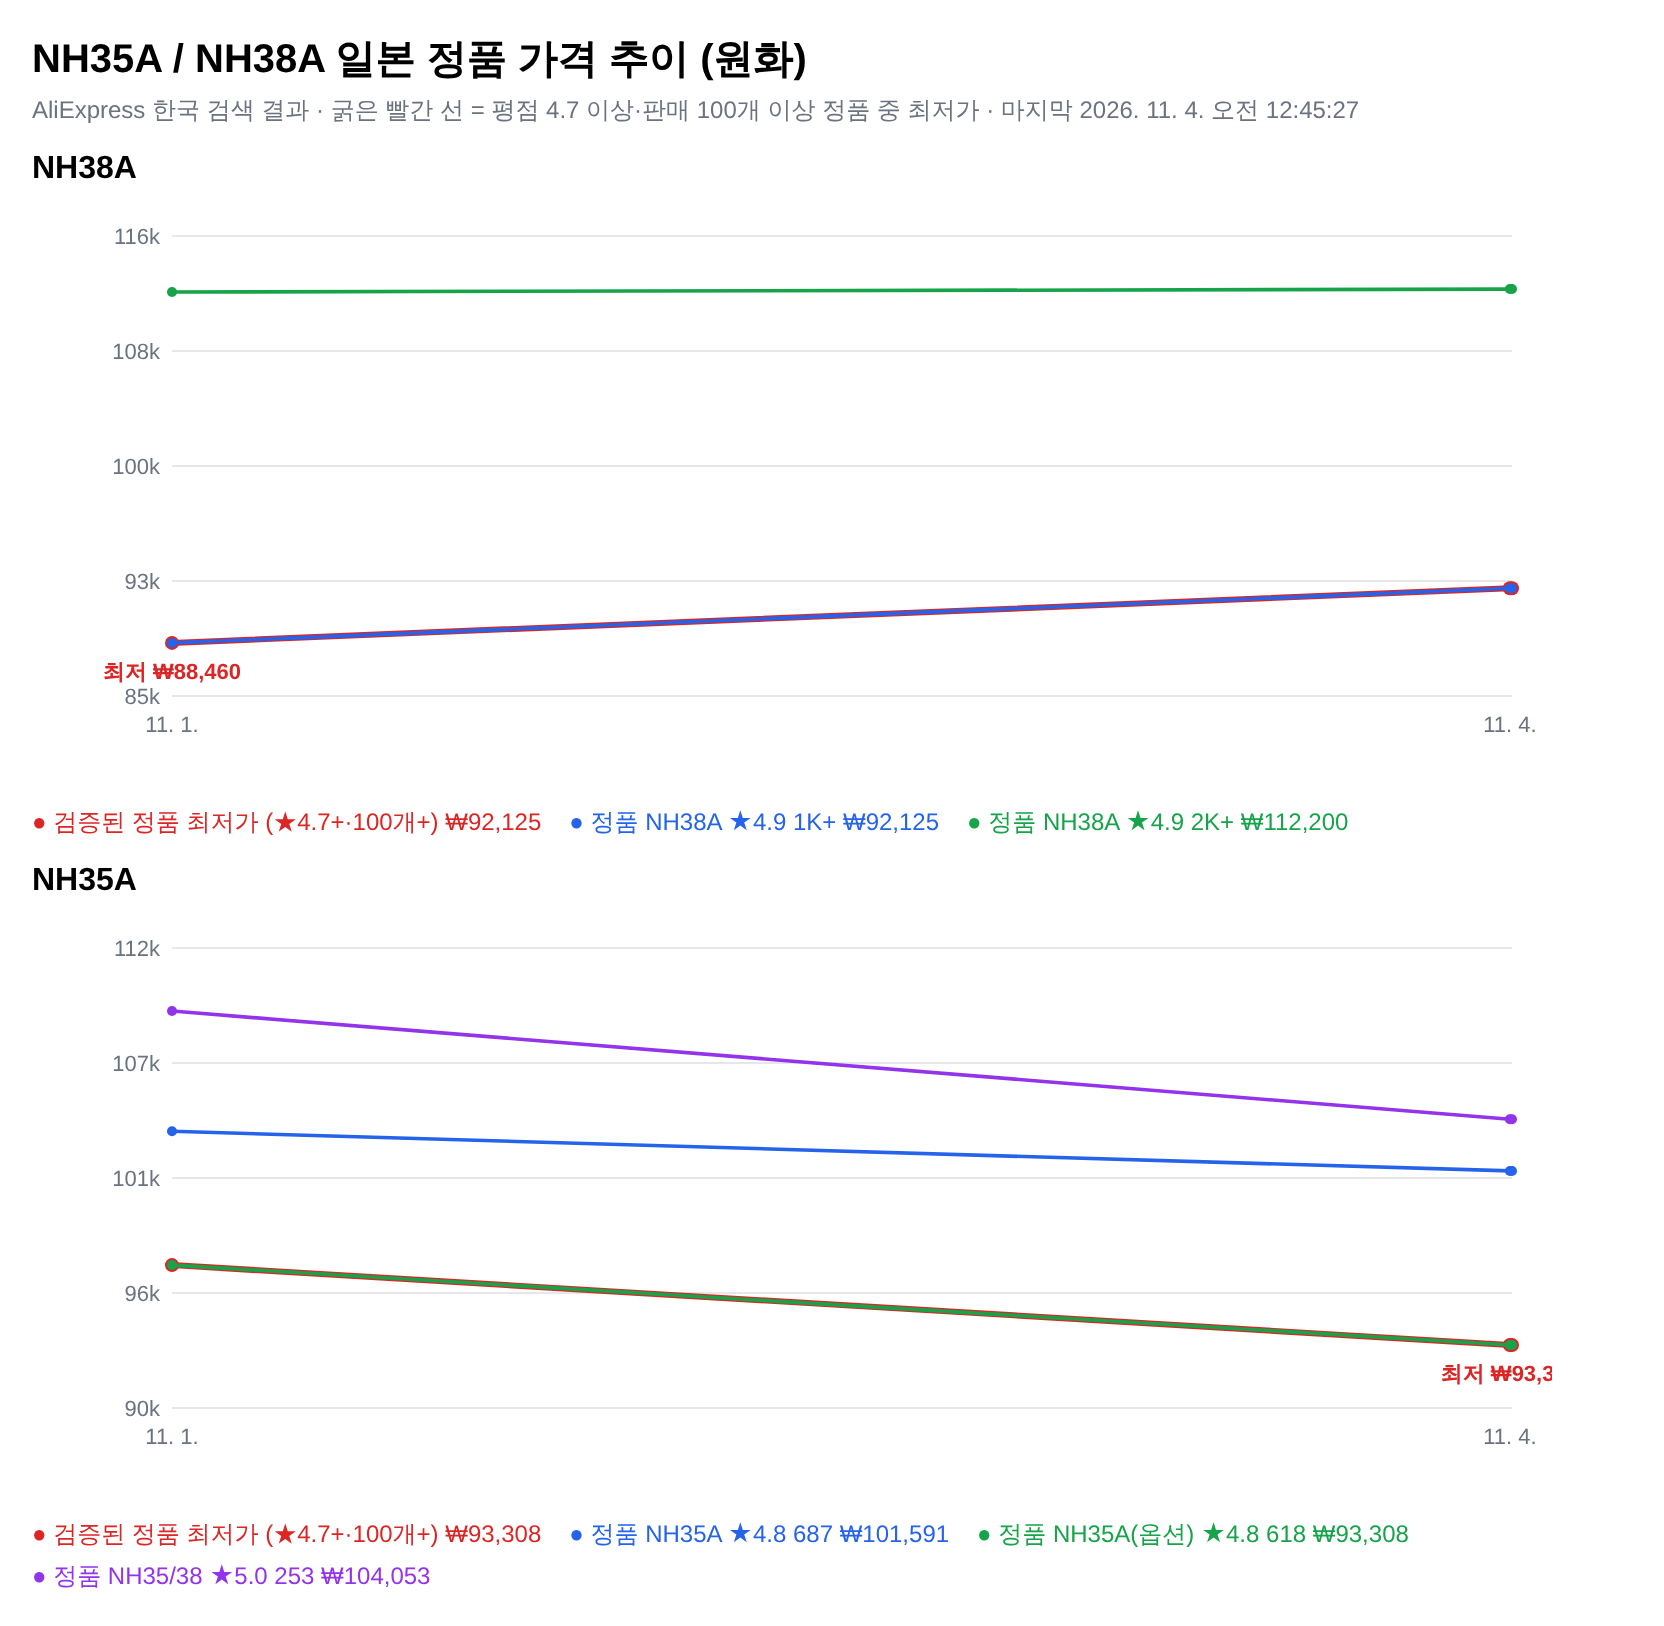
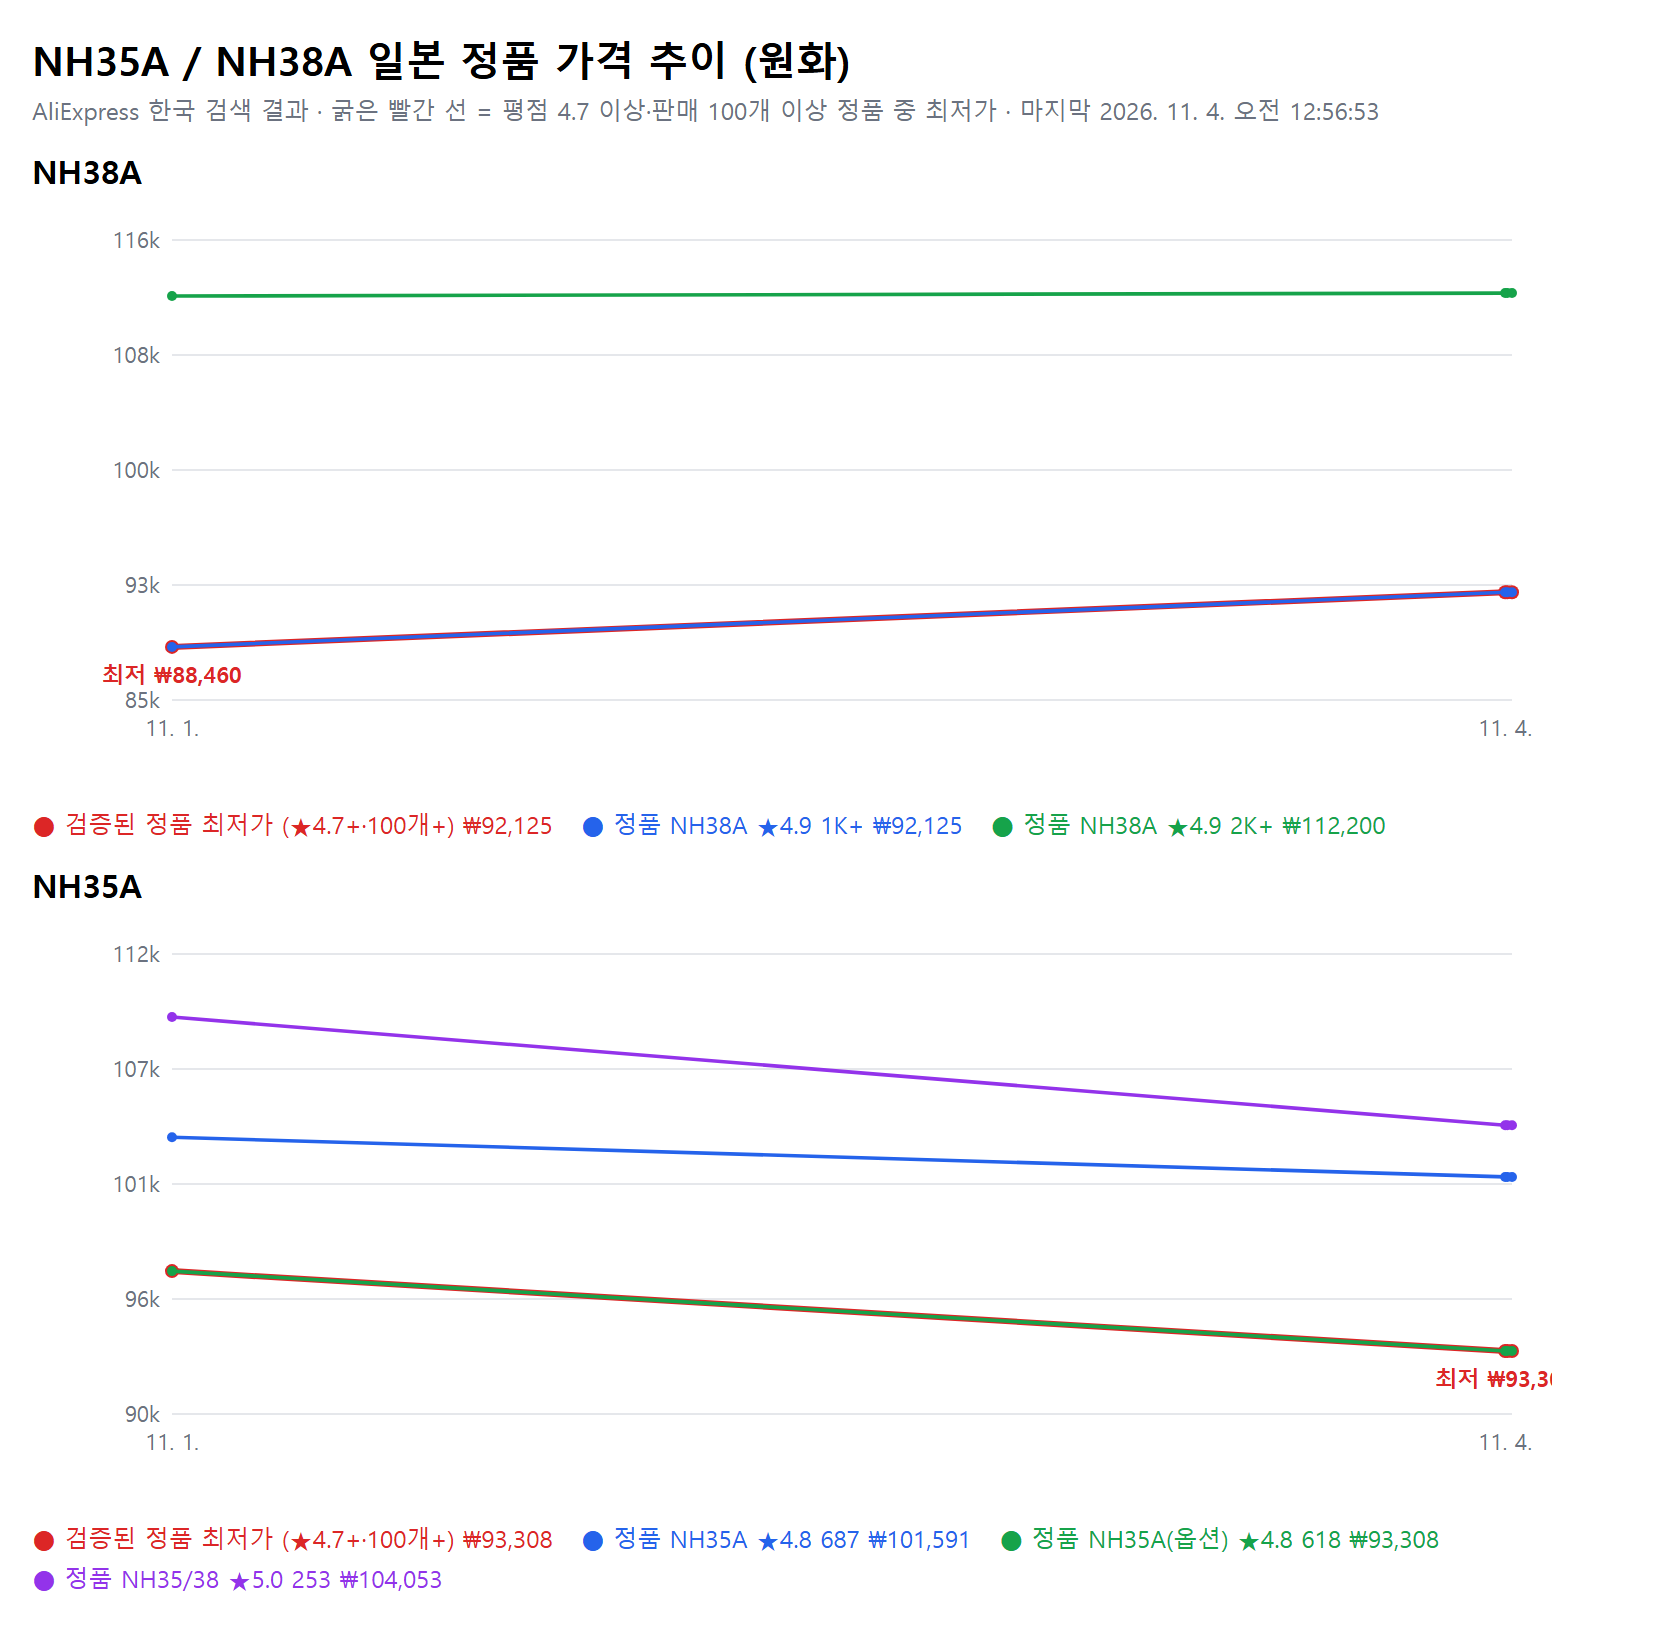
Price tracker update 2026-11-03 15:57

diff --git a/watch_mod/price_tracker/chart.html b/watch_mod/price_tracker/chart.html
@@ -1,2 +1,2 @@
 <!DOCTYPE html><html><head><meta charset="utf-8"><style>body{font-family:sans-serif;margin:16px;width:800px}h1{font-size:20px;margin:0 0 4px}p{color:#6b7280;margin:0 0 8px;font-size:12px}h2{font-size:16px;margin:12px 0 4px}.lg{font-size:12px;display:flex;flex-wrap:wrap;gap:4px 14px}</style></head><body>
-  <h1>NH35A / NH38A 일본 정품 가격 추이 (원화)</h1><p>AliExpress 한국 검색 결과 · 굵은 빨간 선 = 평점 4.7 이상·판매 100개 이상 정품 중 최저가 · 마지막 2026. 11. 4. 오전 12:45:27</p><h2>NH38A</h2><svg width="760" height="300" xmlns="http://www.w3.org/2000/svg" font-family="sans-serif" font-size="11"><line x1="70" x2="740" y1="250" y2="250" stroke="#e5e7eb"/><text x="64" y="254" text-anchor="end" fill="#6b7280">85k</text><line x1="70" x2="740" y1="192.5" y2="192.5" stroke="#e5e7eb"/><text x="64" y="196.5" text-anchor="end" fill="#6b7280">93k</text><line x1="70" x2="740" y1="135" y2="135" stroke="#e5e7eb"/><text x="64" y="139" text-anchor="end" fill="#6b7280">100k</text><line x1="70" x2="740" y1="77.5" y2="77.5" stroke="#e5e7eb"/><text x="64" y="81.5" text-anchor="end" fill="#6b7280">108k</text><line x1="70" x2="740" y1="20" y2="20" stroke="#e5e7eb"/><text x="64" y="24" text-anchor="end" fill="#6b7280">116k</text><text x="70" y="268" text-anchor="middle" fill="#6b7280">11. 1.</text><text x="738.9268559514787" y="268" text-anchor="middle" fill="#6b7280">11. 4.</text><polyline fill="none" stroke="#dc2626" stroke-width="3" points="70,223.46153846153845 738.9268559514787,196.1480137385782 740,196.1480137385782"/><circle cx="70" cy="223.46153846153845" r="3.5" fill="#dc2626"/><circle cx="738.9268559514787" cy="196.1480137385782" r="3.5" fill="#dc2626"/><circle cx="740" cy="196.1480137385782" r="3.5" fill="#dc2626"/><polyline fill="none" stroke="#2563eb" stroke-width="1.8" points="70,223.46153846153845 738.9268559514787,196.1480137385782 740,196.1480137385782"/><circle cx="70" cy="223.46153846153845" r="2.5" fill="#2563eb"/><circle cx="738.9268559514787" cy="196.1480137385782" r="2.5" fill="#2563eb"/><circle cx="740" cy="196.1480137385782" r="2.5" fill="#2563eb"/><polyline fill="none" stroke="#16a34a" stroke-width="1.8" points="70,48.02896766249757 738.9268559514787,46.53846153846155 740,46.53846153846155"/><circle cx="70" cy="48.02896766249757" r="2.5" fill="#16a34a"/><circle cx="738.9268559514787" cy="46.53846153846155" r="2.5" fill="#16a34a"/><circle cx="740" cy="46.53846153846155" r="2.5" fill="#16a34a"/><text x="70" y="241.46153846153845" text-anchor="middle" fill="#dc2626" font-weight="bold">최저 ₩88,460</text></svg><div class="lg"><span style="color:#dc2626">● 검증된 정품 최저가 (★4.7+·100개+) ₩92,125</span><span style="color:#2563eb">● 정품 NH38A ★4.9 1K+ ₩92,125</span><span style="color:#16a34a">● 정품 NH38A ★4.9 2K+ ₩112,200</span></div><h2>NH35A</h2><svg width="760" height="300" xmlns="http://www.w3.org/2000/svg" font-family="sans-serif" font-size="11"><line x1="70" x2="740" y1="250" y2="250" stroke="#e5e7eb"/><text x="64" y="254" text-anchor="end" fill="#6b7280">90k</text><line x1="70" x2="740" y1="192.5" y2="192.5" stroke="#e5e7eb"/><text x="64" y="196.5" text-anchor="end" fill="#6b7280">96k</text><line x1="70" x2="740" y1="135" y2="135" stroke="#e5e7eb"/><text x="64" y="139" text-anchor="end" fill="#6b7280">101k</text><line x1="70" x2="740" y1="77.5" y2="77.5" stroke="#e5e7eb"/><text x="64" y="81.5" text-anchor="end" fill="#6b7280">107k</text><line x1="70" x2="740" y1="20" y2="20" stroke="#e5e7eb"/><text x="64" y="24" text-anchor="end" fill="#6b7280">112k</text><text x="70" y="268" text-anchor="middle" fill="#6b7280">11. 1.</text><text x="738.9268559514787" y="268" text-anchor="middle" fill="#6b7280">11. 4.</text><polyline fill="none" stroke="#dc2626" stroke-width="3" points="70,178.5583774894939 738.9268559514787,218.4816371277179 740,218.4816371277179"/><circle cx="70" cy="178.5583774894939" r="3.5" fill="#dc2626"/><circle cx="738.9268559514787" cy="218.4816371277179" r="3.5" fill="#dc2626"/><circle cx="740" cy="218.4816371277179" r="3.5" fill="#dc2626"/><polyline fill="none" stroke="#2563eb" stroke-width="1.8" points="70,111.63438699068153 738.9268559514787,131.459437237347 740,131.459437237347"/><circle cx="70" cy="111.63438699068153" r="2.5" fill="#2563eb"/><circle cx="738.9268559514787" cy="131.459437237347" r="2.5" fill="#2563eb"/><circle cx="740" cy="131.459437237347" r="2.5" fill="#2563eb"/><polyline fill="none" stroke="#16a34a" stroke-width="1.8" points="70,178.5583774894939 738.9268559514787,218.4816371277179 740,218.4816371277179"/><circle cx="70" cy="178.5583774894939" r="2.5" fill="#16a34a"/><circle cx="738.9268559514787" cy="218.4816371277179" r="2.5" fill="#16a34a"/><circle cx="740" cy="218.4816371277179" r="2.5" fill="#16a34a"/><polyline fill="none" stroke="#9333ea" stroke-width="1.8" points="70,51.518362872282104 738.9268559514787,105.59336744016079 740,105.59336744016079"/><circle cx="70" cy="51.518362872282104" r="2.5" fill="#9333ea"/><circle cx="738.9268559514787" cy="105.59336744016079" r="2.5" fill="#9333ea"/><circle cx="740" cy="105.59336744016079" r="2.5" fill="#9333ea"/><text x="738.9268559514787" y="236.4816371277179" text-anchor="middle" fill="#dc2626" font-weight="bold">최저 ₩93,308</text></svg><div class="lg"><span style="color:#dc2626">● 검증된 정품 최저가 (★4.7+·100개+) ₩93,308</span><span style="color:#2563eb">● 정품 NH35A ★4.8 687 ₩101,591</span><span style="color:#16a34a">● 정품 NH35A(옵션) ★4.8 618 ₩93,308</span><span style="color:#9333ea">● 정품 NH35/38 ★5.0 253 ₩104,053</span></div></body></html>
+  <h1>NH35A / NH38A 일본 정품 가격 추이 (원화)</h1><p>AliExpress 한국 검색 결과 · 굵은 빨간 선 = 평점 4.7 이상·판매 100개 이상 정품 중 최저가 · 마지막 2026. 11. 4. 오전 12:56:53</p><h2>NH38A</h2><svg width="760" height="300" xmlns="http://www.w3.org/2000/svg" font-family="sans-serif" font-size="11"><line x1="70" x2="740" y1="250" y2="250" stroke="#e5e7eb"/><text x="64" y="254" text-anchor="end" fill="#6b7280">85k</text><line x1="70" x2="740" y1="192.5" y2="192.5" stroke="#e5e7eb"/><text x="64" y="196.5" text-anchor="end" fill="#6b7280">93k</text><line x1="70" x2="740" y1="135" y2="135" stroke="#e5e7eb"/><text x="64" y="139" text-anchor="end" fill="#6b7280">100k</text><line x1="70" x2="740" y1="77.5" y2="77.5" stroke="#e5e7eb"/><text x="64" y="81.5" text-anchor="end" fill="#6b7280">108k</text><line x1="70" x2="740" y1="20" y2="20" stroke="#e5e7eb"/><text x="64" y="24" text-anchor="end" fill="#6b7280">116k</text><text x="70" y="268" text-anchor="middle" fill="#6b7280">11. 1.</text><text x="736.5851367291523" y="268" text-anchor="middle" fill="#6b7280">11. 4.</text><polyline fill="none" stroke="#dc2626" stroke-width="3" points="70,223.46153846153845 736.5851367291523,196.1480137385782 737.6545240111087,196.1480137385782 740,196.1480137385782"/><circle cx="70" cy="223.46153846153845" r="3.5" fill="#dc2626"/><circle cx="736.5851367291523" cy="196.1480137385782" r="3.5" fill="#dc2626"/><circle cx="737.6545240111087" cy="196.1480137385782" r="3.5" fill="#dc2626"/><circle cx="740" cy="196.1480137385782" r="3.5" fill="#dc2626"/><polyline fill="none" stroke="#2563eb" stroke-width="1.8" points="70,223.46153846153845 736.5851367291523,196.1480137385782 737.6545240111087,196.1480137385782 740,196.1480137385782"/><circle cx="70" cy="223.46153846153845" r="2.5" fill="#2563eb"/><circle cx="736.5851367291523" cy="196.1480137385782" r="2.5" fill="#2563eb"/><circle cx="737.6545240111087" cy="196.1480137385782" r="2.5" fill="#2563eb"/><circle cx="740" cy="196.1480137385782" r="2.5" fill="#2563eb"/><polyline fill="none" stroke="#16a34a" stroke-width="1.8" points="70,48.02896766249757 736.5851367291523,46.53846153846155 737.6545240111087,46.53846153846155 740,46.53846153846155"/><circle cx="70" cy="48.02896766249757" r="2.5" fill="#16a34a"/><circle cx="736.5851367291523" cy="46.53846153846155" r="2.5" fill="#16a34a"/><circle cx="737.6545240111087" cy="46.53846153846155" r="2.5" fill="#16a34a"/><circle cx="740" cy="46.53846153846155" r="2.5" fill="#16a34a"/><text x="70" y="241.46153846153845" text-anchor="middle" fill="#dc2626" font-weight="bold">최저 ₩88,460</text></svg><div class="lg"><span style="color:#dc2626">● 검증된 정품 최저가 (★4.7+·100개+) ₩92,125</span><span style="color:#2563eb">● 정품 NH38A ★4.9 1K+ ₩92,125</span><span style="color:#16a34a">● 정품 NH38A ★4.9 2K+ ₩112,200</span></div><h2>NH35A</h2><svg width="760" height="300" xmlns="http://www.w3.org/2000/svg" font-family="sans-serif" font-size="11"><line x1="70" x2="740" y1="250" y2="250" stroke="#e5e7eb"/><text x="64" y="254" text-anchor="end" fill="#6b7280">90k</text><line x1="70" x2="740" y1="192.5" y2="192.5" stroke="#e5e7eb"/><text x="64" y="196.5" text-anchor="end" fill="#6b7280">96k</text><line x1="70" x2="740" y1="135" y2="135" stroke="#e5e7eb"/><text x="64" y="139" text-anchor="end" fill="#6b7280">101k</text><line x1="70" x2="740" y1="77.5" y2="77.5" stroke="#e5e7eb"/><text x="64" y="81.5" text-anchor="end" fill="#6b7280">107k</text><line x1="70" x2="740" y1="20" y2="20" stroke="#e5e7eb"/><text x="64" y="24" text-anchor="end" fill="#6b7280">112k</text><text x="70" y="268" text-anchor="middle" fill="#6b7280">11. 1.</text><text x="736.5851367291523" y="268" text-anchor="middle" fill="#6b7280">11. 4.</text><polyline fill="none" stroke="#dc2626" stroke-width="3" points="70,178.5583774894939 736.5851367291523,218.4816371277179 737.6545240111087,218.4816371277179 740,218.4816371277179"/><circle cx="70" cy="178.5583774894939" r="3.5" fill="#dc2626"/><circle cx="736.5851367291523" cy="218.4816371277179" r="3.5" fill="#dc2626"/><circle cx="737.6545240111087" cy="218.4816371277179" r="3.5" fill="#dc2626"/><circle cx="740" cy="218.4816371277179" r="3.5" fill="#dc2626"/><polyline fill="none" stroke="#2563eb" stroke-width="1.8" points="70,111.63438699068153 736.5851367291523,131.459437237347 737.6545240111087,131.459437237347 740,131.459437237347"/><circle cx="70" cy="111.63438699068153" r="2.5" fill="#2563eb"/><circle cx="736.5851367291523" cy="131.459437237347" r="2.5" fill="#2563eb"/><circle cx="737.6545240111087" cy="131.459437237347" r="2.5" fill="#2563eb"/><circle cx="740" cy="131.459437237347" r="2.5" fill="#2563eb"/><polyline fill="none" stroke="#16a34a" stroke-width="1.8" points="70,178.5583774894939 736.5851367291523,218.4816371277179 737.6545240111087,218.4816371277179 740,218.4816371277179"/><circle cx="70" cy="178.5583774894939" r="2.5" fill="#16a34a"/><circle cx="736.5851367291523" cy="218.4816371277179" r="2.5" fill="#16a34a"/><circle cx="737.6545240111087" cy="218.4816371277179" r="2.5" fill="#16a34a"/><circle cx="740" cy="218.4816371277179" r="2.5" fill="#16a34a"/><polyline fill="none" stroke="#9333ea" stroke-width="1.8" points="70,51.518362872282104 736.5851367291523,105.59336744016079 737.6545240111087,105.59336744016079 740,105.59336744016079"/><circle cx="70" cy="51.518362872282104" r="2.5" fill="#9333ea"/><circle cx="736.5851367291523" cy="105.59336744016079" r="2.5" fill="#9333ea"/><circle cx="737.6545240111087" cy="105.59336744016079" r="2.5" fill="#9333ea"/><circle cx="740" cy="105.59336744016079" r="2.5" fill="#9333ea"/><text x="736.5851367291523" y="236.4816371277179" text-anchor="middle" fill="#dc2626" font-weight="bold">최저 ₩93,308</text></svg><div class="lg"><span style="color:#dc2626">● 검증된 정품 최저가 (★4.7+·100개+) ₩93,308</span><span style="color:#2563eb">● 정품 NH35A ★4.8 687 ₩101,591</span><span style="color:#16a34a">● 정품 NH35A(옵션) ★4.8 618 ₩93,308</span><span style="color:#9333ea">● 정품 NH35/38 ★5.0 253 ₩104,053</span></div></body></html>

diff --git a/watch_mod/price_tracker/track.js b/watch_mod/price_tracker/track.js
@@ -133,7 +133,7 @@ async function telegram(H, alerts) {
   const tok = process.env.TELEGRAM_BOT_TOKEN, chat = process.env.TELEGRAM_CHAT_ID;
   if (!tok || !chat) { console.log('telegram: TELEGRAM_BOT_TOKEN / TELEGRAM_CHAT_ID not set, skipped'); return; }
   const last = H[H.length - 1], prev = H[H.length - 2];
-  let text = (alerts.length ? '🔔 ' + alerts.join(' / ') + '\n\n' : '') + '⌚ NH35A/NH38A 정품 가격 (' + new Date(last.ts).toLocaleString('ko-KR', { timeZone: 'Asia/Seoul' }) + ')\n';
+  let text = (alerts.length ? '🔔 최저가! ' + alerts.join(' / ') + '\n\n' : '') + '⌚ NH35A/NH38A 정품 가격 (' + new Date(last.ts).toLocaleString('ko-KR', { timeZone: 'Asia/Seoul' }) + ')\n';
   for (const g of Object.keys(GROUPS)) {
     const c = last.groups[g]?.min_qualified, b = prev?.groups[g]?.min_qualified;
     const lows = H.map(h => h.groups[g]?.min_qualified?.price).filter(Boolean);

diff --git a/watch_mod/price_tracker/latest.md b/watch_mod/price_tracker/latest.md
@@ -2,10 +2,10 @@
 
 # NH35A / NH38A 일본 정품 가격 추적
 
-마지막 확인: 2026. 11. 4. 오전 12:45:27 (기록 3회)
+마지막 확인: 2026. 11. 4. 오전 12:56:53 (기록 4회)
 
 ## NH38A
-- 검증된 정품 최저가: **₩92,125** [#1005010806500239](https://www.aliexpress.com/item/1005010806500239.html) ★4.9 · 1K+판매
+- 검증된 정품 최저가: **₩92,125** [#1005010806500239](https://www.aliexpress.com/item/1005010806500239.html) ★4.9 · 1,000+판매
 - 직전 대비: +₩0
 - 기록상 최저: ₩88,460
 - 정품 NH38A ★4.9 1K+: ₩92,125 ([링크](https://www.aliexpress.com/item/1005010806500239.html))
